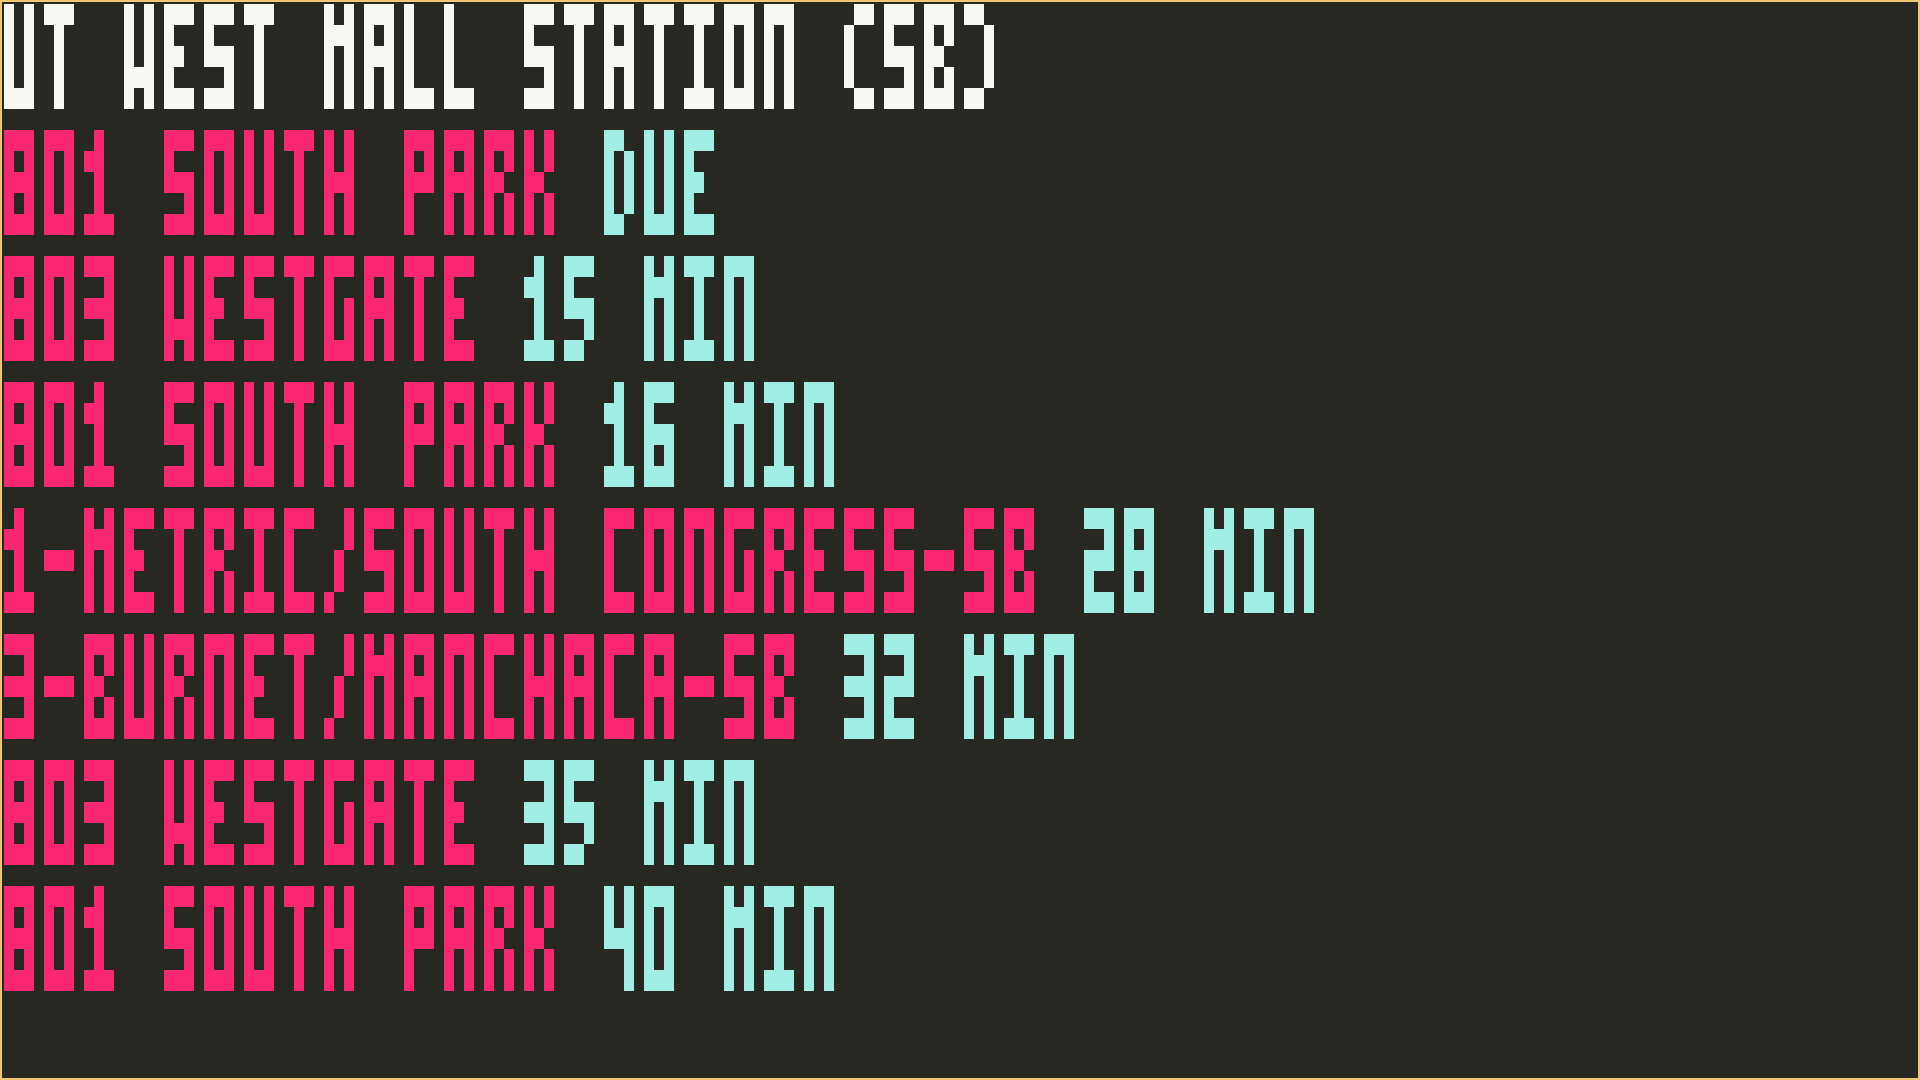
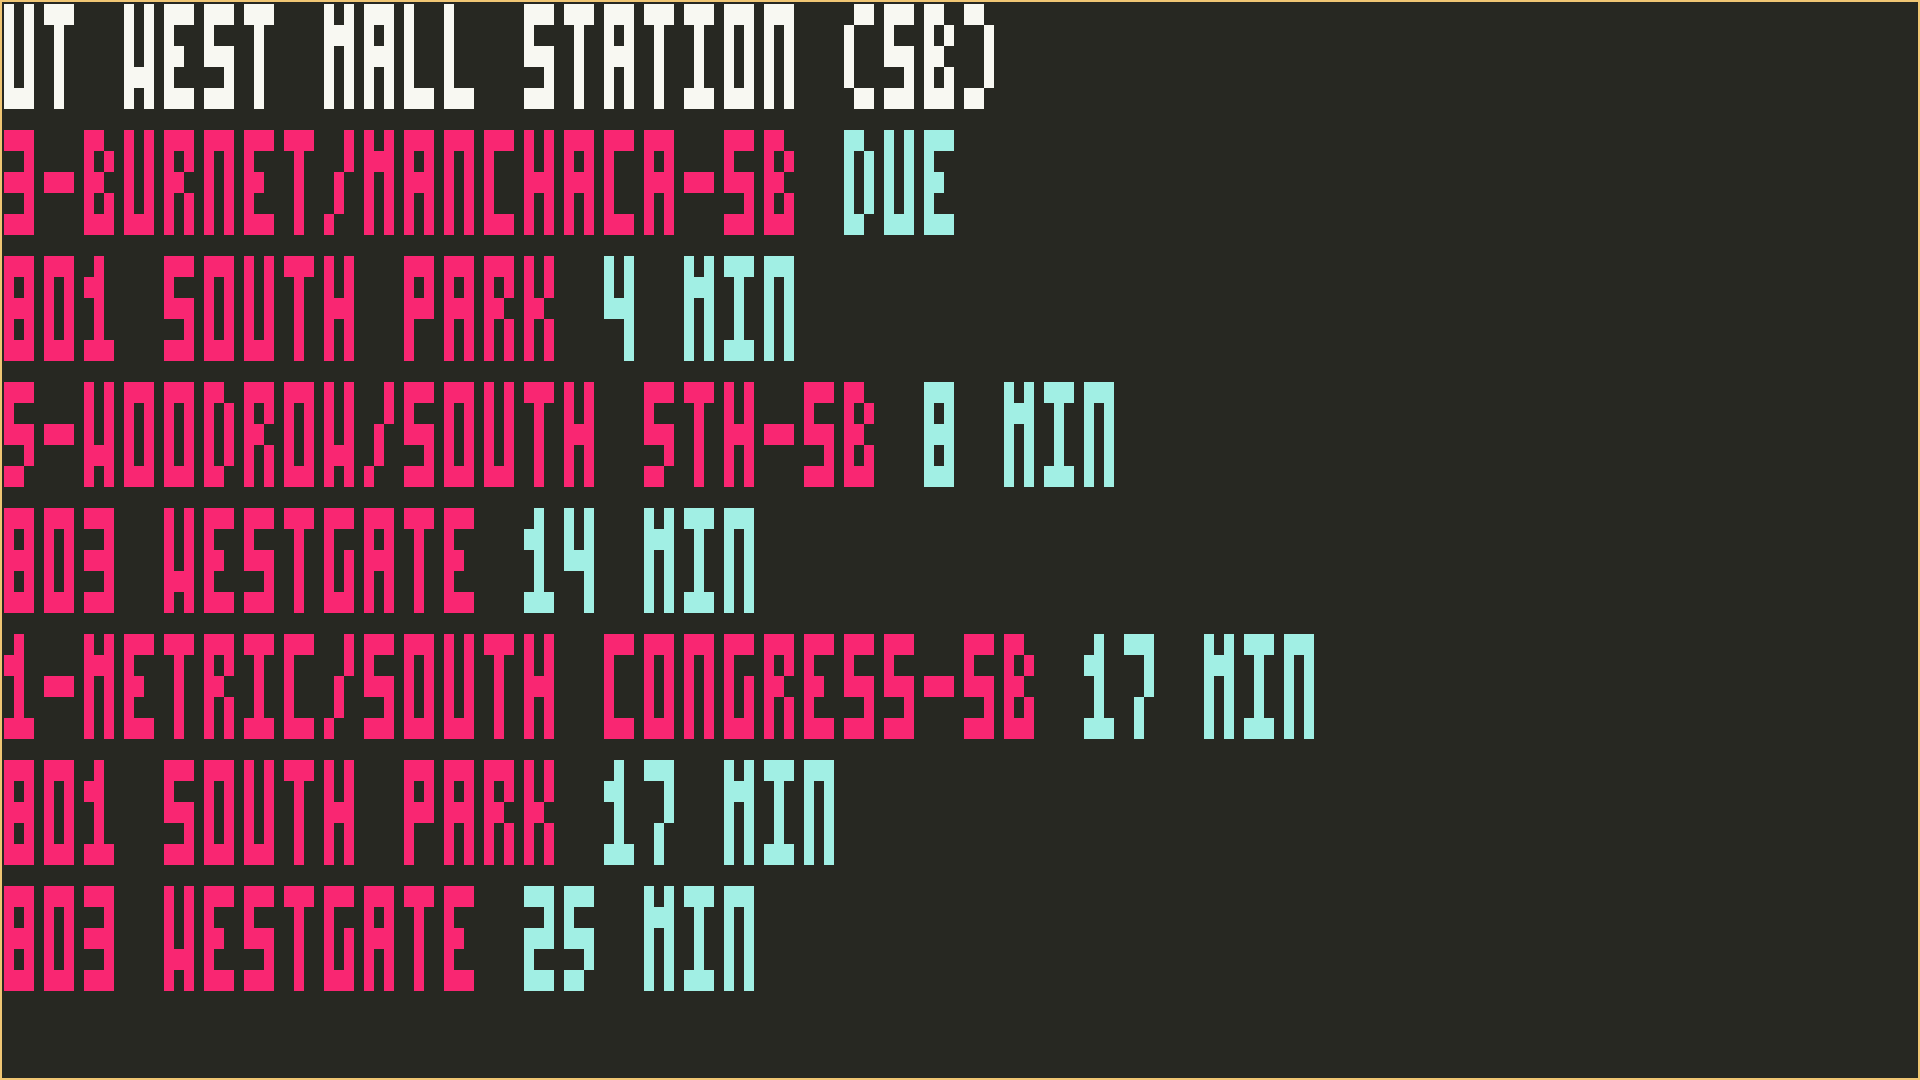
update font

Changed region(s): [[0.0, 0.1222, 0.6875, 0.9167], [0.4688, 0.0, 0.5, 0.0306]]

diff --git a/bustty.py b/bustty.py
@@ -199,7 +199,7 @@ class Display:
     font['8'] = [1,1,1,1,0,1,1,1,1,1,0,1,1,1,1]
     font['9'] = [1,1,1,1,0,1,1,1,1,0,0,1,1,1,1]
     font['A'] = [1,1,1,1,0,1,1,1,1,1,0,1,1,0,1]
-    font['B'] = [1,1,1,1,0,1,1,1,0,1,0,1,1,1,1]
+    font['B'] = [1,1,0,1,0,1,1,1,0,1,0,1,1,1,1]
     font['C'] = [1,1,1,1,0,0,1,0,0,1,0,0,1,1,1]
     font['D'] = [1,1,0,1,0,1,1,0,1,1,0,1,1,1,0]
     font['E'] = [1,1,1,1,0,0,1,1,0,1,0,0,1,1,1]
